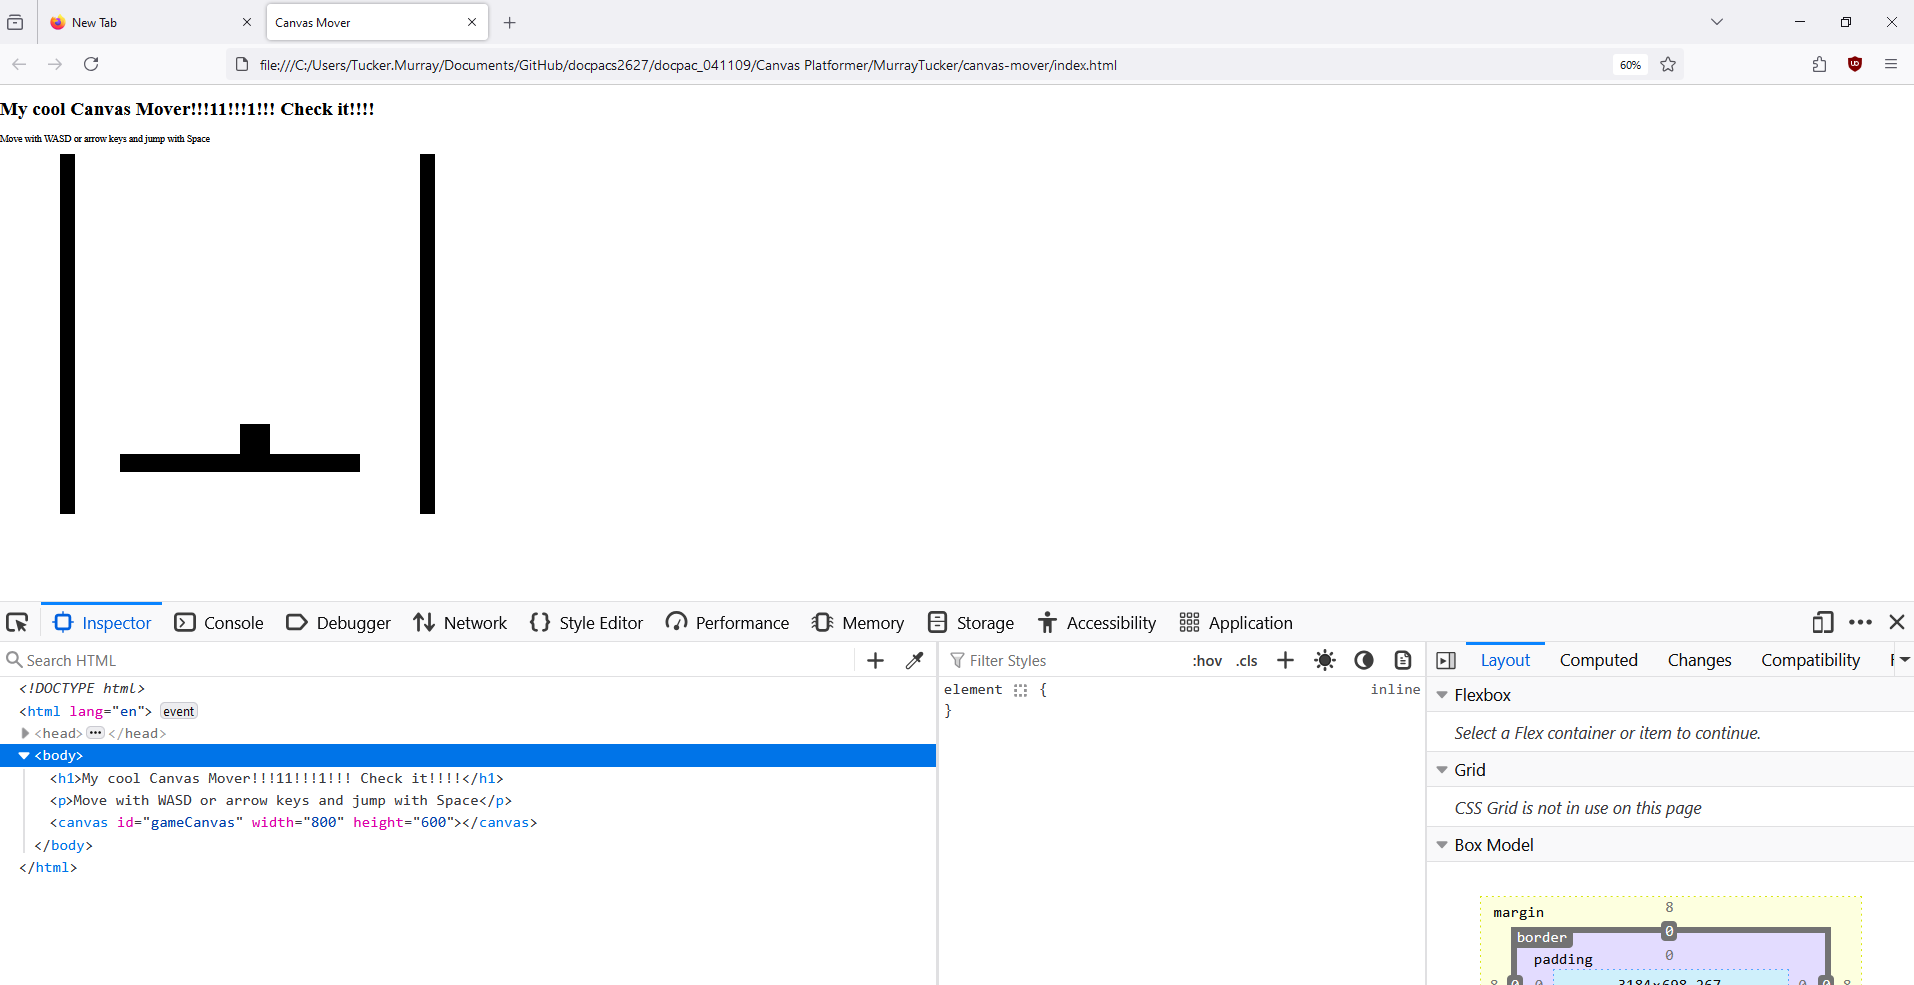
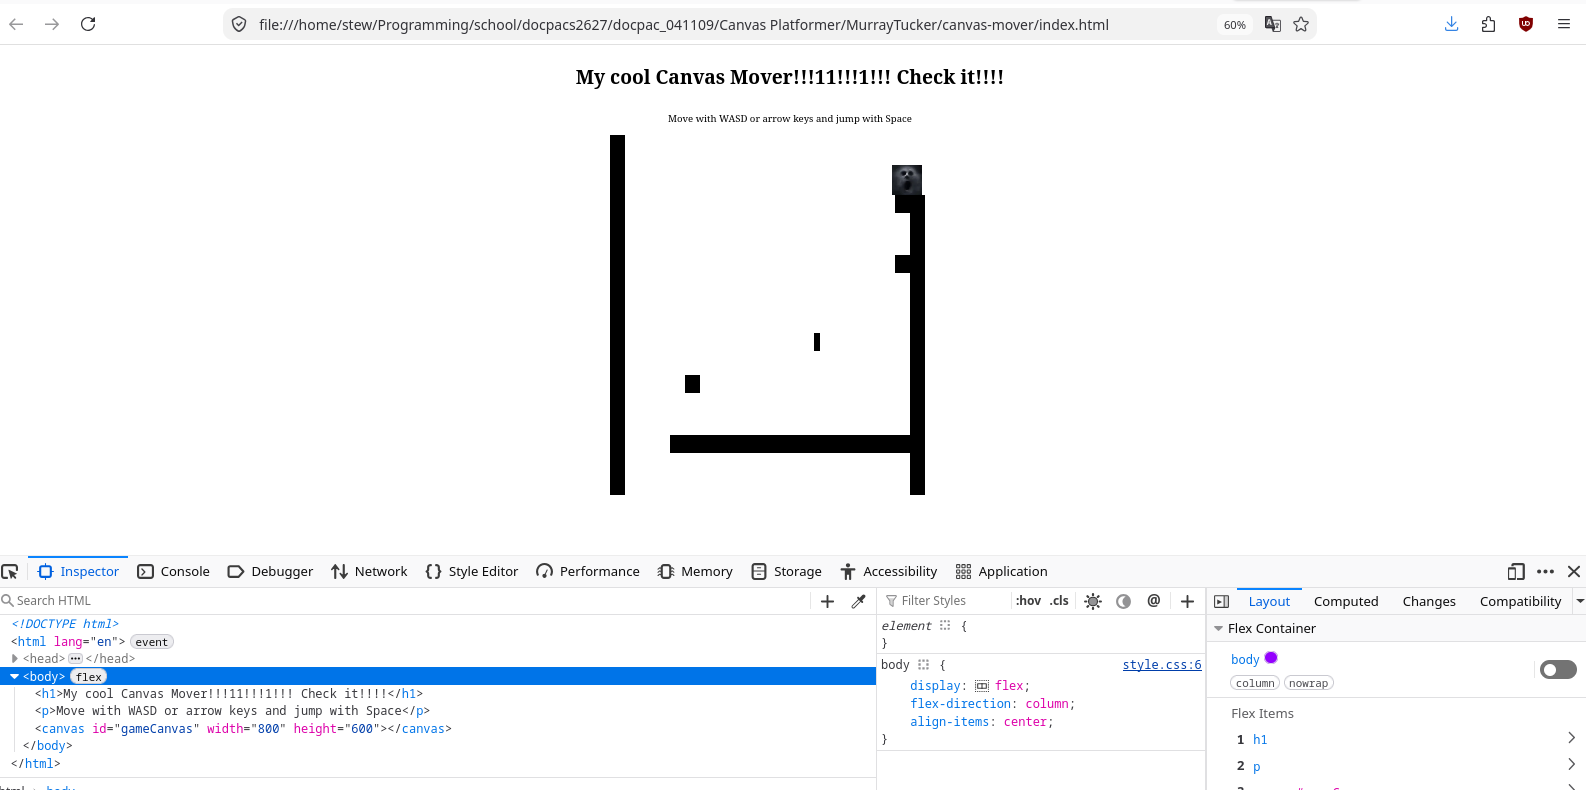
Canvas Mover Completed with Stretch Goals

diff --git a/docpac_041109/Canvas Platformer/MurrayTucker/canvas-mover/game.js b/docpac_041109/Canvas Platformer/MurrayTucker/canvas-mover/game.js
@@ -5,19 +5,28 @@ const maxSpeed = 10;
 const jumpForce = 30;
 const gravity = 3;
 
+const playerImage = new Image(50, 50);
+playerImage.src = "beast.webp";
+
 const player = {
     x: 800/2,
     y: 600/2,
     width: 50,
     height: 50,
     xSpeed: 0,
-    ySpeed: 0
+    ySpeed: 0,
+    onFloor: false
 }
 
 const obstacles = [
     { x: 200, y: 500, width: 400, height: 30 },
     { x: 100, y: 0, width: 25, height: 600 },
-    { x: 700, y: 0, width: 25, height: 600 }
+    { x: 600, y: 100, width: 25, height: 600 },
+    { x: 575, y: 200, width: 25, height: 30 },
+    { x: 575, y: 100, width: 25, height: 30 },
+    { x: 225, y: 400, width: 25, height: 30 },
+    { x: 440, y: 330, width: 10, height: 30 }
+    
 ]
 
 addEventListener("keydown", (e) => {
@@ -25,7 +34,7 @@ addEventListener("keydown", (e) => {
 
     const key = e.key.toLowerCase();
 
-    if (key.startsWith("arrow")) {    
+    if (key.startsWith("arrow") || key === " ") {    
         e.preventDefault();
     }
 
@@ -35,7 +44,8 @@ addEventListener("keydown", (e) => {
     else if (key === "d" || key === "arrowright") {
         player.xSpeed += maxSpeed;
     }
-    else if (key === " " && player.y === canvasElement.height - player.height) {
+
+    if (key === " " && player.onFloor) {
         player.ySpeed = -jumpForce;
     }
 });
@@ -56,28 +66,37 @@ addEventListener("keyup", (e) => {
 });
 
 function loop() {
+    // Clear canvas
     canvas.clearRect(0, 0, canvasElement.width, canvasElement.height);
+    // Apply gravity
+    player.ySpeed += gravity;
+    // Apply speed
     player.x += player.xSpeed;
     player.y += player.ySpeed;
-    player.ySpeed += gravity;
+    // Clamp position
     player.x = Math.min(Math.max(player.x, 0), canvasElement.width - player.width);
     player.y = Math.min(Math.max(player.y, 0), canvasElement.height - player.height);
     
-    if (player.y === canvasElement.height - player.height) {
-        player.ySpeed = 0;   
-    }
-
     handleObstacleCollisions();
+
     drawPlayer(player);
     drawObstacles(obstacles);
+    
     requestAnimationFrame(loop);
 }
 // Run game loop
 loop();
 
+// AABB overlap check, and then correct position using the smallest axis
 function handleObstacleCollisions() {
+    player.onFloor = (player.y + player.height >= canvasElement.height);
+
     for (const obstacle of obstacles) {
         if (checkAABBCollision(player, obstacle)) {
+            // floor check
+            if (player.y + player.height > obstacle.y) {
+                player.onFloor = true;
+            }
             // left, right
             const overlapPlayerLObstacleR = obstacle.width - (player.x - obstacle.x);
             const overlapPlayerRObstacleL = (obstacle.x - player.x) - player.width;
@@ -90,7 +109,6 @@ function handleObstacleCollisions() {
 
             if (Math.abs(lowestLeftRight) < Math.abs(lowestTopBottom)) {
                 player.x += lowestLeftRight;
-                xSpeed = 0;
             }
             else {
                 player.y += lowestTopBottom;
@@ -110,7 +128,8 @@ function checkAABBCollision(box1, box2) {
 }
 
 function drawPlayer(playerObject) {
-    canvas.fillRect(
+    canvas.drawImage(
+        playerImage,
         playerObject.x,
         playerObject.y,
         playerObject.width,

diff --git a/docpac_041109/Canvas Platformer/MurrayTucker/canvas-mover/style.css b/docpac_041109/Canvas Platformer/MurrayTucker/canvas-mover/style.css
@@ -1,0 +1,10 @@
+#gameCanvas {
+    width: 800px;
+    height: 600px;
+}
+
+body {
+    display: flex;
+    flex-direction: column;
+    align-items: center;
+}
